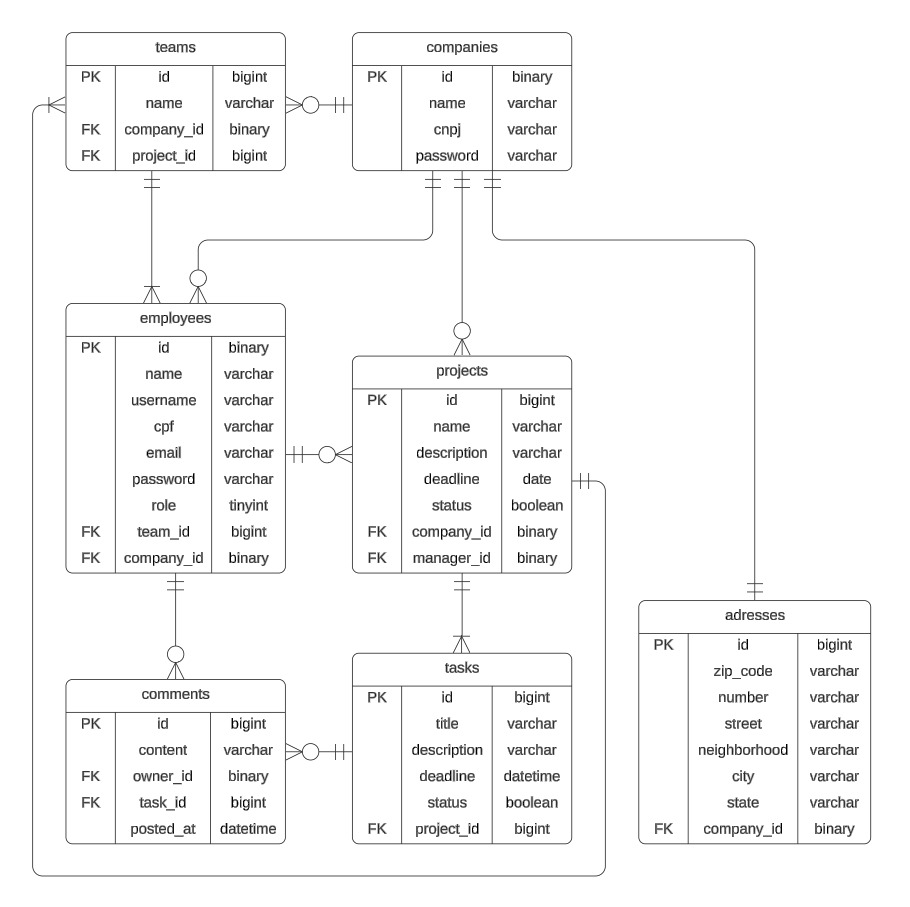
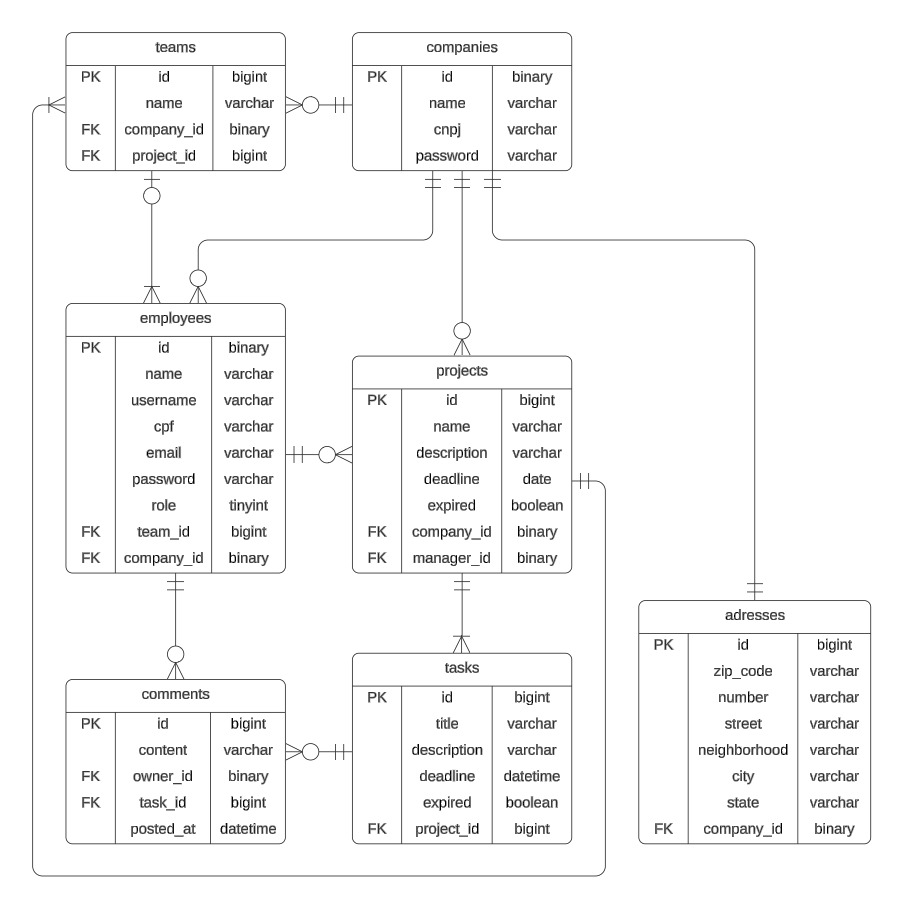
Fixing Documentation

diff --git a/OfficeAPI/src/main/java/com/office/api/service/TeamService.java b/OfficeAPI/src/main/java/com/office/api/service/TeamService.java
@@ -70,8 +70,8 @@ public class TeamService {
         if(usedData.stream().anyMatch(teamValue -> !teamValue.getId().equals(id)))
             throw new UsedDataException();
 
-        Set<Employee> employeesToAdd = this.getAvailableToAdd(data.to_add(), team);
-        Set<Employee> employeesToRemove = this.getAvailableToRemove(data.to_remove(), team);
+        Set<Employee> employeesToAdd = this.filterToAdd(data.to_add(), team);
+        Set<Employee> employeesToRemove = this.filterToRemove(data.to_remove(), team);
 
         team.setName(data.name());
         team.getMembers().addAll(employeesToAdd);
@@ -100,7 +100,7 @@ public class TeamService {
         return TeamDTO.toDTOList(teams);
     }
 
-    private Set<Employee> getAvailableToAdd(Set<String> data, Team team) {
+    private Set<Employee> filterToAdd(Set<String> data, Team team) {
         Set<Employee> toAdd = new HashSet<>();
         data.forEach(username -> {
             Optional<Employee> optionalEmployee = employeeRepository.findByUsername(username);
@@ -118,7 +118,7 @@ public class TeamService {
         });
         return toAdd;
     }
-    private Set<Employee> getAvailableToRemove(Set<String> data, Team team) {
+    private Set<Employee> filterToRemove(Set<String> data, Team team) {
         Set<Employee> toRemove = new HashSet<>();
         data.forEach(username -> {
             Employee employee = employeeRepository.findByUsername(username)

diff --git a/OfficeAPI/src/main/java/com/office/api/model/dto/project/ProjectDTO.java b/OfficeAPI/src/main/java/com/office/api/model/dto/project/ProjectDTO.java
@@ -11,7 +11,7 @@ public record ProjectDTO(
         String description,
         String manager_username,
         String deadline,
-        boolean status) {
+        boolean is_expired) {
 
     public static ProjectDTO toDTO(Project project) {
         var formatter = DateTimeFormatter.ofPattern("dd/MM/yyyy");

diff --git a/OfficeAPI/src/main/java/com/office/api/model/dto/task/TaskDTO.java b/OfficeAPI/src/main/java/com/office/api/model/dto/task/TaskDTO.java
@@ -12,7 +12,7 @@ public record TaskDTO(
         String title,
         String description,
         String deadline,
-        boolean status,
+        boolean is_expired,
         Set<CommentDTO> comments) {
 
     public static TaskDTO toDTO(Task task) {
